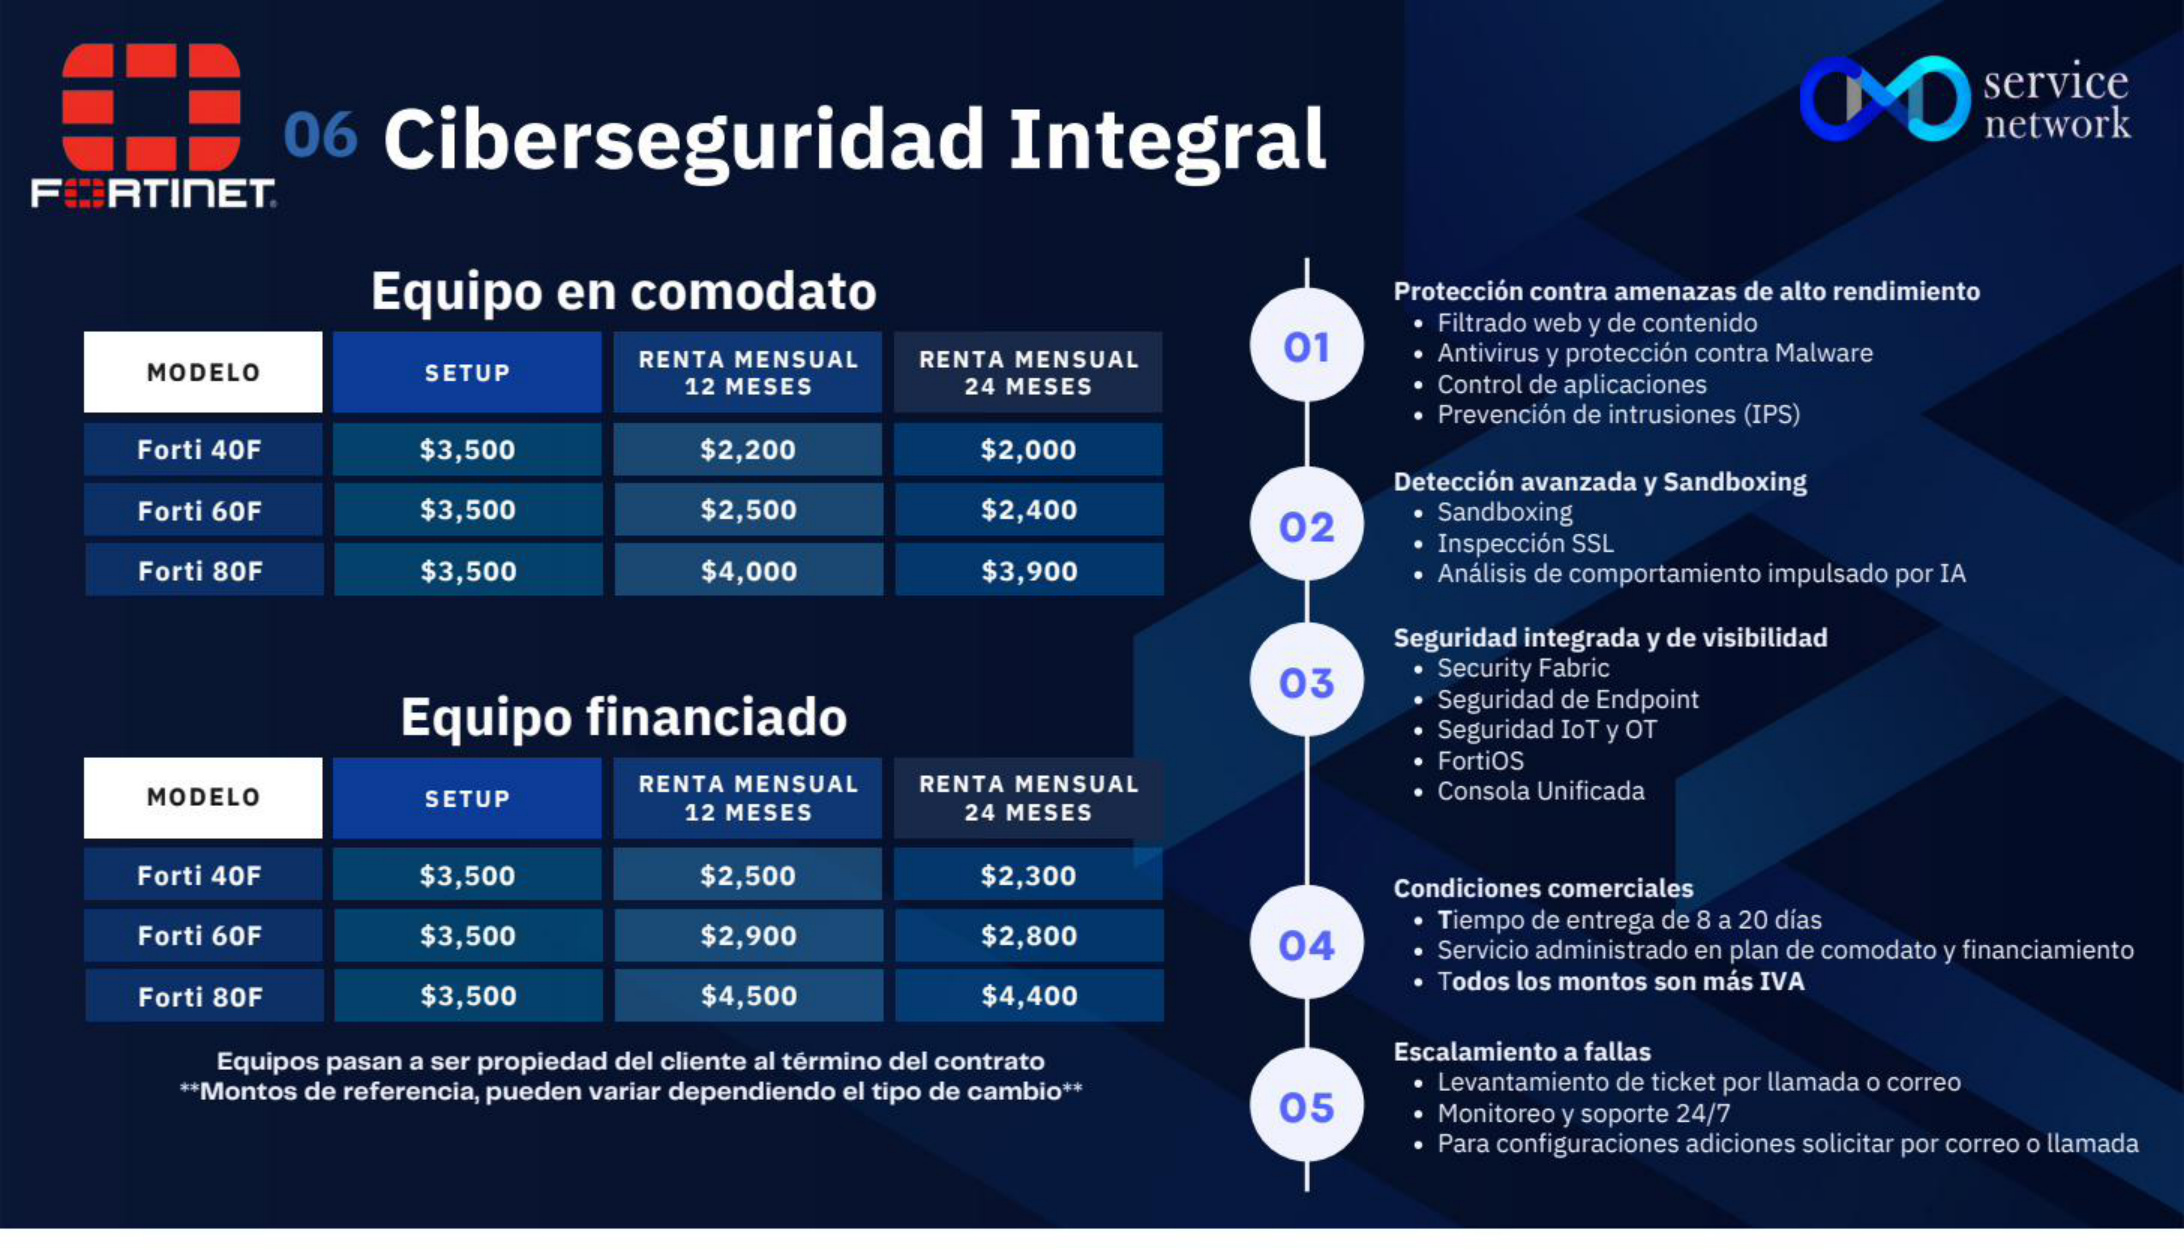
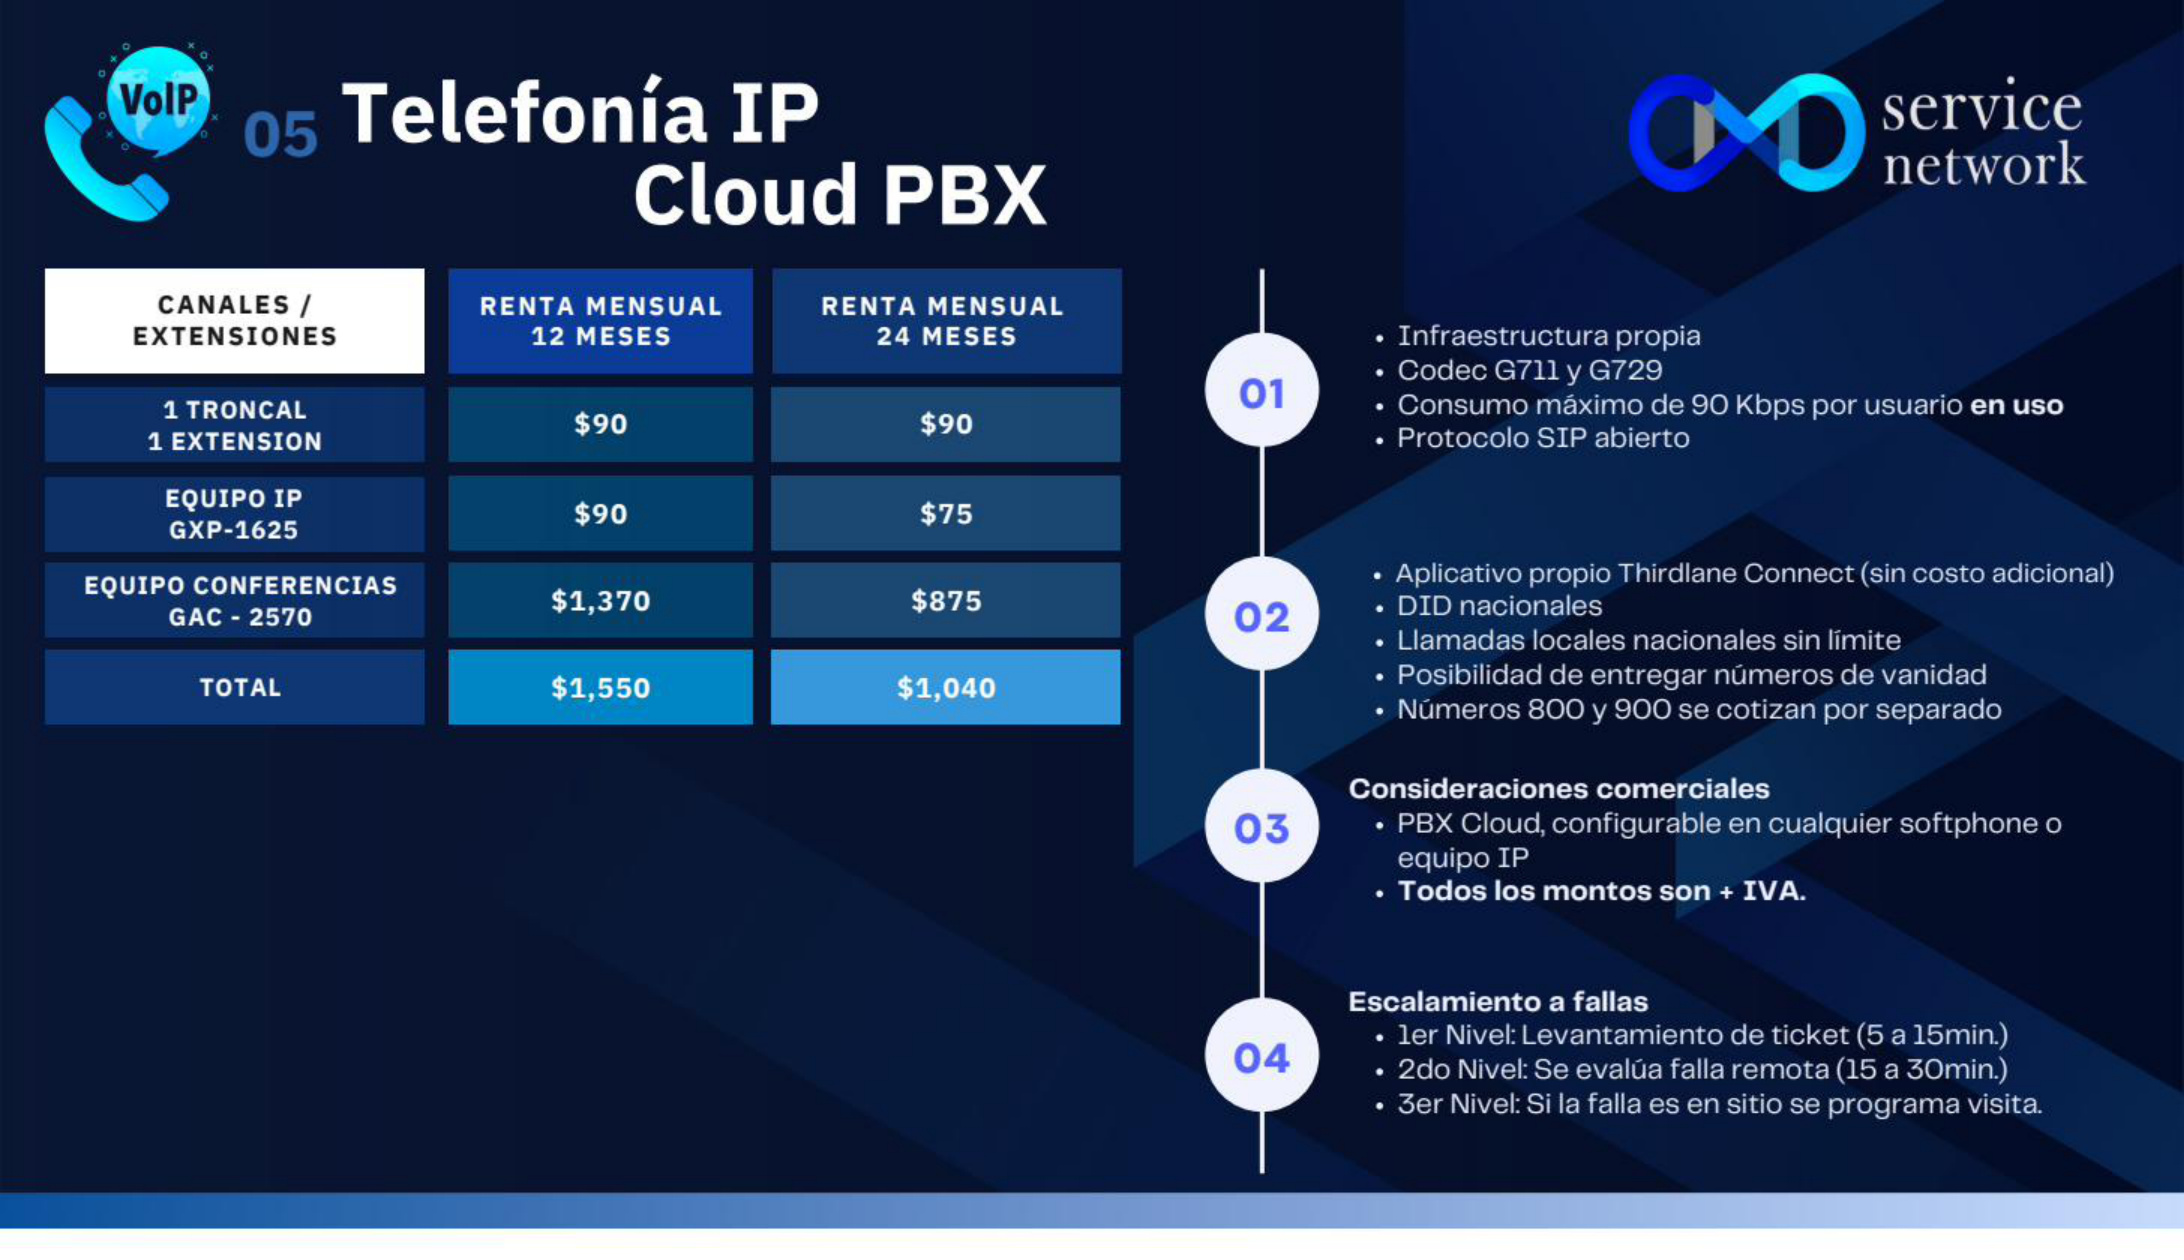
feat: Telefonía IP usa pg6 de PROPUESTA_FORMAL_CMC como fondo con bounds calibrados

diff --git a/cmc_pdf_generator_visual_v3.py b/cmc_pdf_generator_visual_v3.py
@@ -234,6 +234,8 @@ class CMCProposalGeneratorV3:
     SERVICE_COND_TABLE_BOUNDS = {
         'Internet Dedicado':        (0.01,  0.526, 0.21,  0.88),
         'Internet Satelital':       (0.027, 0.53,  0.20,  0.888),
+        'Telefonía IP':             (0.02,  0.52,  0.213, 0.58),
+        'Telefonía IP / Cloud PBX': (0.02,  0.52,  0.213, 0.58),
         'Ciberseguridad Integral':  (0.04,  0.53,  0.20,  0.88),
     }
 
@@ -241,6 +243,8 @@ class CMCProposalGeneratorV3:
     SERVICES_WITH_COND_SLIDE = {
         'Internet Dedicado',
         'Internet Satelital',
+        'Telefonía IP',
+        'Telefonía IP / Cloud PBX',
         'Ciberseguridad Integral',
     }
 
